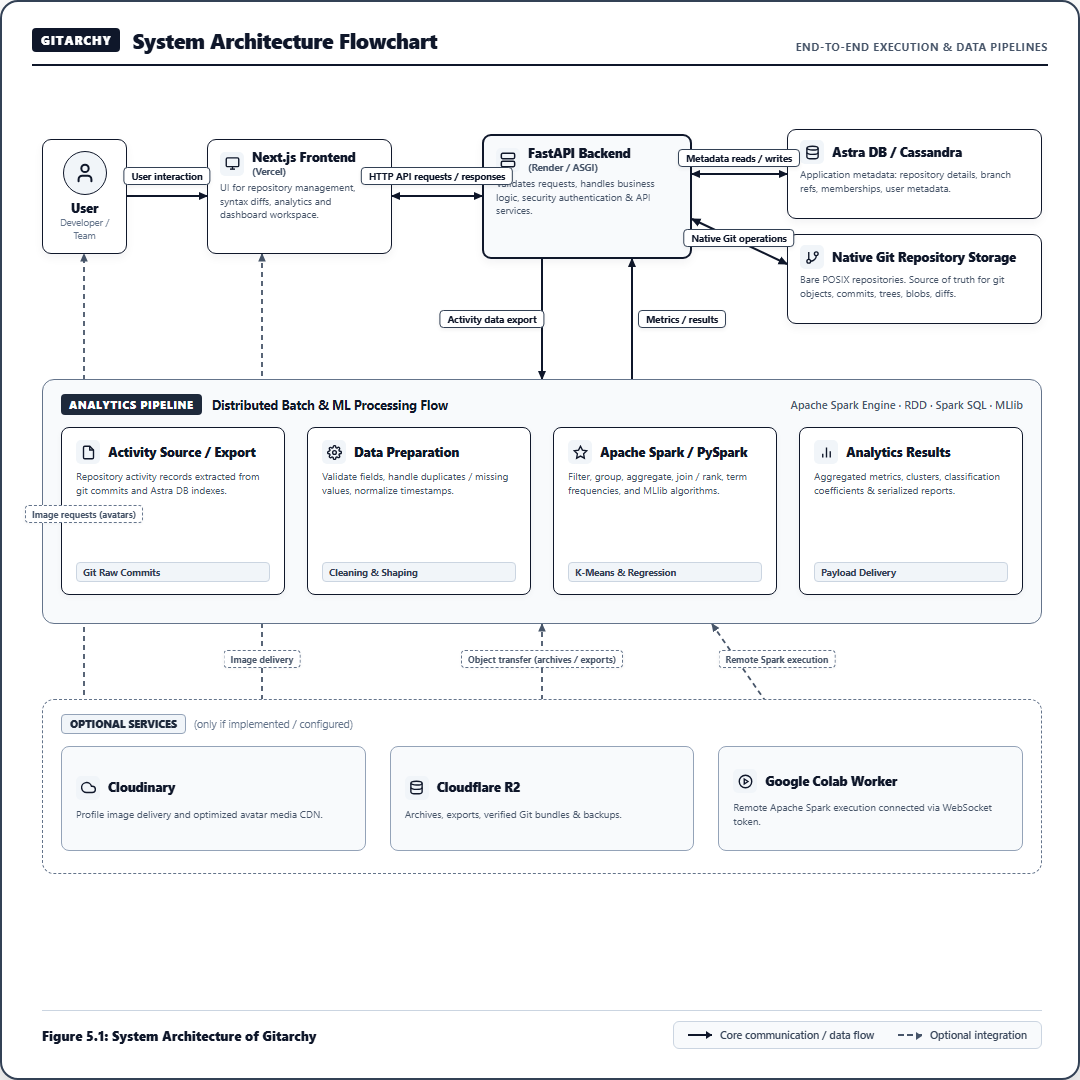
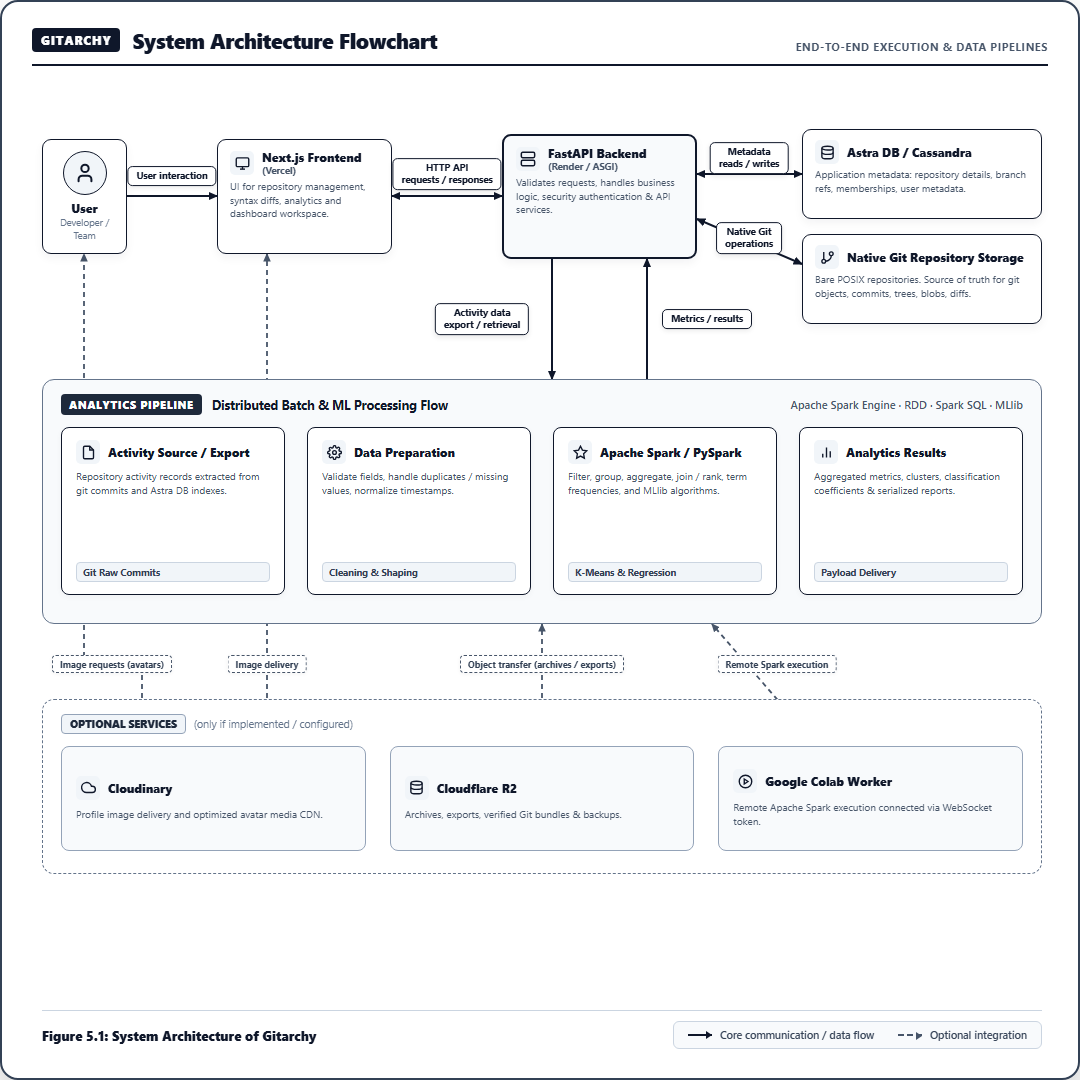
docs: widen the gaps in the architecture flowchart so no label sits on a wire
Pure layout: the wire pills were landing on top of the arrows they name. Nodes
shrink slightly and the columns move apart, which buys each pill clear space,
and the pill border darkens so it reads over a line it still crosses.

diff --git a/scripts/generate_flowchart.js b/scripts/generate_flowchart.js
@@ -130,7 +130,7 @@ const flowchartHtml = `<!DOCTYPE html>
     flex-shrink: 0;
   }
   .node-title {
-    font-size: 12.5px;
+    font-size: 12px;
     font-weight: 800;
     color: #0f172a;
     line-height: 1.2;
@@ -146,8 +146,7 @@ const flowchartHtml = `<!DOCTYPE html>
     line-height: 1.35;
   }
 
-  /* Specific Nodes in Top Row */
-  /* User: left 10, width 85 */
+  /* Top Row Positions */
   .node-user {
     left: 10px;
     top: 25px;
@@ -170,39 +169,36 @@ const flowchartHtml = `<!DOCTYPE html>
     margin-bottom: 6px;
   }
 
-  /* Frontend: left 175, width 185 */
   .node-frontend {
-    left: 175px;
+    left: 185px;
     top: 25px;
-    width: 185px;
+    width: 175px;
     height: 115px;
   }
 
-  /* Backend: left 450, width 210 */
   .node-backend {
-    left: 450px;
+    left: 470px;
     top: 20px;
-    width: 210px;
+    width: 195px;
     height: 125px;
     background: #f8fafc;
     border: 2px solid #0f172a;
   }
 
-  /* Storage: left 755, width 255 */
   .node-astra {
-    left: 755px;
+    left: 770px;
     top: 15px;
-    width: 255px;
+    width: 240px;
     height: 90px;
   }
   .node-git {
-    left: 755px;
+    left: 770px;
     top: 120px;
-    width: 255px;
+    width: 240px;
     height: 90px;
   }
 
-  /* Analytics Pipeline: top 265, height 245 */
+  /* Analytics Pipeline */
   .pipeline-container {
     position: absolute;
     left: 10px;
@@ -263,7 +259,7 @@ const flowchartHtml = `<!DOCTYPE html>
     border-radius: 4px;
   }
 
-  /* Optional Services: top 585, height 175 */
+  /* Optional Services */
   .optional-container {
     position: absolute;
     left: 10px;
@@ -312,34 +308,37 @@ const flowchartHtml = `<!DOCTYPE html>
     justify-content: center;
   }
 
-  /* Floating Wire Label Pill */
+  /* Floating Wire Label Pill (Centered & Clear) */
   .wire-pill {
     position: absolute;
     background: #ffffff;
-    border: 1px solid #334155;
-    padding: 2px 7px;
-    border-radius: 4px;
+    border: 1.5px solid #0f172a;
+    padding: 3px 8px;
+    border-radius: 5px;
     font-size: 9.5px;
     font-weight: 750;
     color: #0f172a;
     white-space: nowrap;
     z-index: 3;
-    box-shadow: 0 2px 4px rgba(0,0,0,0.06);
+    box-shadow: 0 2px 5px rgba(0,0,0,0.08);
     transform: translate(-50%, -50%);
+    text-align: center;
+    line-height: 1.25;
   }
   .wire-pill-dashed {
     position: absolute;
     background: #ffffff;
-    border: 1px dashed #64748b;
-    padding: 2px 6px;
+    border: 1px dashed #475569;
+    padding: 2px 7px;
     border-radius: 4px;
     font-size: 9px;
     font-weight: 700;
-    color: #475569;
+    color: #334155;
     white-space: nowrap;
     z-index: 3;
-    box-shadow: 0 1px 3px rgba(0,0,0,0.04);
+    box-shadow: 0 1px 4px rgba(0,0,0,0.05);
     transform: translate(-50%, -50%);
+    text-align: center;
   }
 
   /* Bottom Legend & Caption */
@@ -439,65 +438,60 @@ const flowchartHtml = `<!DOCTYPE html>
       </defs>
 
       <!-- 1. User -> Frontend (Solid) -->
-      <!-- User right: 95, Frontend left: 175. Gap is 80px -->
-      <line x1="95" y1="82" x2="175" y2="82" stroke="#0f172a" stroke-width="2" marker-end="url(#arrow)" />
+      <!-- User right: 95, Frontend left: 185. Gap: 90px -->
+      <line x1="95" y1="82" x2="185" y2="82" stroke="#0f172a" stroke-width="2" marker-end="url(#arrow)" />
 
       <!-- 2. Frontend <-> Backend (Bidirectional Solid) -->
-      <!-- Frontend right: 360, Backend left: 450. Gap is 90px -->
-      <line x1="360" y1="82" x2="450" y2="82" stroke="#0f172a" stroke-width="2" marker-start="url(#arrow)" marker-end="url(#arrow)" />
+      <!-- Frontend right: 360, Backend left: 470. Gap: 110px -->
+      <line x1="360" y1="82" x2="470" y2="82" stroke="#0f172a" stroke-width="2" marker-start="url(#arrow)" marker-end="url(#arrow)" />
 
       <!-- 3. Backend <-> Astra DB (Bidirectional Solid) -->
-      <!-- Backend right: 660, Astra left: 755. Gap is 95px -->
-      <line x1="660" y1="60" x2="755" y2="60" stroke="#0f172a" stroke-width="2" marker-start="url(#arrow)" marker-end="url(#arrow)" />
+      <!-- Backend right: 665, Astra left: 770. Gap: 105px -->
+      <line x1="665" y1="60" x2="770" y2="60" stroke="#0f172a" stroke-width="2" marker-start="url(#arrow)" marker-end="url(#arrow)" />
 
       <!-- 4. Backend <-> Git Storage (Bidirectional Solid) -->
-      <!-- Backend right: 660, Git left: 755. Gap is 95px -->
-      <line x1="660" y1="105" x2="755" y2="150" stroke="#0f172a" stroke-width="2" marker-start="url(#arrow)" marker-end="url(#arrow)" />
+      <!-- Backend right: 665, Git left: 770. Gap: 105px -->
+      <line x1="665" y1="105" x2="770" y2="150" stroke="#0f172a" stroke-width="2" marker-start="url(#arrow)" marker-end="url(#arrow)" />
 
       <!-- 5. Backend -> Data Preparation (Downward Solid) -->
-      <!-- Backend bottom: 145, Data Prep top: 310 -->
-      <!-- Data Prep center is around x: 390 -->
-      <line x1="510" y1="145" x2="510" y2="265" stroke="#0f172a" stroke-width="2" marker-end="url(#arrow)" />
+      <!-- Backend bottom: 145, Data Prep top: 265. Gap: 120px -->
+      <line x1="520" y1="145" x2="520" y2="265" stroke="#0f172a" stroke-width="2" marker-end="url(#arrow)" />
 
       <!-- 6. Analytics Results -> Backend (Upward Solid) -->
-      <!-- Analytics Results center is around x: 880, Backend right bottom: x: 600 -->
-      <line x1="600" y1="265" x2="600" y2="145" stroke="#0f172a" stroke-width="2" marker-end="url(#arrow)" />
+      <line x1="615" y1="265" x2="615" y2="145" stroke="#0f172a" stroke-width="2" marker-end="url(#arrow)" />
 
       <!-- 7. Intra-Pipeline Flow (Horizontal Arrows between 4 stages) -->
-      <!-- Stage 1 (left 28, width 222 -> right 250) -> Stage 2 (left 272) -->
       <line x1="250" y1="395" x2="272" y2="395" stroke="#0f172a" stroke-width="2" marker-end="url(#arrow)" />
-      <!-- Stage 2 (left 272, width 222 -> right 494) -> Stage 3 (left 516) -->
       <line x1="494" y1="395" x2="516" y2="395" stroke="#0f172a" stroke-width="2" marker-end="url(#arrow)" />
-      <!-- Stage 3 (left 516, width 222 -> right 738) -> Stage 4 (left 760) -->
       <line x1="738" y1="395" x2="760" y2="395" stroke="#0f172a" stroke-width="2" marker-end="url(#arrow)" />
 
       <!-- 8. Optional Dashed Integrations -->
-      <!-- Cloudinary (center x: 180, top: 640) -> Next.js (center x: 267, bottom: 140) -->
-      <path d="M 230 640 L 230 140" fill="none" stroke="#475569" stroke-width="1.8" stroke-dasharray="5 4" marker-end="url(#arrow-dashed)" />
+      <!-- Cloudinary -> Next.js (Upward Dashed) -->
+      <line x1="235" y1="620" x2="235" y2="140" stroke="#475569" stroke-width="1.8" stroke-dasharray="5 4" marker-end="url(#arrow-dashed)" />
       
-      <!-- Cloudinary -> User (center x: 52, bottom: 140) -->
-      <path d="M 125 670 L 52 670 L 52 140" fill="none" stroke="#475569" stroke-width="1.8" stroke-dasharray="5 4" marker-end="url(#arrow-dashed)" />
+      <!-- Cloudinary -> User (Leaves top of card, runs through gap to User) -->
+      <path d="M 110 620 L 110 550 L 52 550 L 52 140" fill="none" stroke="#475569" stroke-width="1.8" stroke-dasharray="5 4" marker-end="url(#arrow-dashed)" />
 
-      <!-- Cloudflare R2 (center x: 510, top: 640) -> Data Preparation (center x: 383, bottom: 510) -->
-      <line x1="510" y1="640" x2="510" y2="510" stroke="#475569" stroke-width="1.8" stroke-dasharray="5 4" marker-end="url(#arrow-dashed)" />
+      <!-- Cloudflare R2 -> Data Preparation (Upward Dashed) -->
+      <line x1="510" y1="620" x2="510" y2="510" stroke="#475569" stroke-width="1.8" stroke-dasharray="5 4" marker-end="url(#arrow-dashed)" />
 
-      <!-- Colab Worker (center x: 840, top: 640) -> Apache Spark (center x: 627, bottom: 510) -->
-      <line x1="770" y1="640" x2="680" y2="510" stroke="#475569" stroke-width="1.8" stroke-dasharray="5 4" marker-end="url(#arrow-dashed)" />
+      <!-- Colab Worker -> Apache Spark (Upward Dashed) -->
+      <line x1="775" y1="620" x2="680" y2="510" stroke="#475569" stroke-width="1.8" stroke-dasharray="5 4" marker-end="url(#arrow-dashed)" />
     </svg>
 
-    <!-- Wire Labels (Placed in Center of Gaps) -->
-    <div class="wire-pill" style="left: 135px; top: 62px;">User interaction</div>
-    <div class="wire-pill" style="left: 405px; top: 62px;">HTTP API requests / responses</div>
-    <div class="wire-pill" style="left: 707px; top: 44px;">Metadata reads / writes</div>
-    <div class="wire-pill" style="left: 707px; top: 124px;">Native Git operations</div>
+    <!-- Wire Labels Centered in Gaps -->
+    <div class="wire-pill" style="left: 140px; top: 62px;">User interaction</div>
+    <div class="wire-pill" style="left: 415px; top: 60px;">HTTP API<br>requests / responses</div>
+    <div class="wire-pill" style="left: 717px; top: 44px;">Metadata<br>reads / writes</div>
+    <div class="wire-pill" style="left: 717px; top: 124px;">Native Git<br>operations</div>
     
-    <div class="wire-pill" style="left: 460px; top: 205px;">Activity data export</div>
-    <div class="wire-pill" style="left: 650px; top: 205px;">Metrics / results</div>
+    <div class="wire-pill" style="left: 450px; top: 205px;">Activity data<br>export / retrieval</div>
+    <div class="wire-pill" style="left: 675px; top: 205px;">Metrics / results</div>
 
-    <div class="wire-pill-dashed" style="left: 230px; top: 545px;">Image delivery</div>
-    <div class="wire-pill-dashed" style="left: 52px; top: 400px;">Image requests (avatars)</div>
-    <div class="wire-pill-dashed" style="left: 510px; top: 545px;">Object transfer (archives / exports)</div>
-    <div class="wire-pill-dashed" style="left: 745px; top: 545px;">Remote Spark execution</div>
+    <div class="wire-pill-dashed" style="left: 80px; top: 550px;">Image requests (avatars)</div>
+    <div class="wire-pill-dashed" style="left: 235px; top: 550px;">Image delivery</div>
+    <div class="wire-pill-dashed" style="left: 510px; top: 550px;">Object transfer (archives / exports)</div>
+    <div class="wire-pill-dashed" style="left: 745px; top: 550px;">Remote Spark execution</div>
 
     <!-- 1. User Node -->
     <div class="node-card node-user">
@@ -743,7 +737,7 @@ const flowchartHtml = `<!DOCTYPE html>
     deviceScaleFactor: 1, // exact 1080x1080 pixel PNG output
   });
 
-  console.log('Rendering refined 1080x1080 System Architecture Flowchart...');
+  console.log('Rendering clean 1080x1080 System Architecture Flowchart...');
   await page.setContent(flowchartHtml, { waitUntil: 'networkidle' });
   const outPath = path.join(imagesDir, 'system-architecture-flowchart.png');
   const canvas = await page.$('.canvas');
